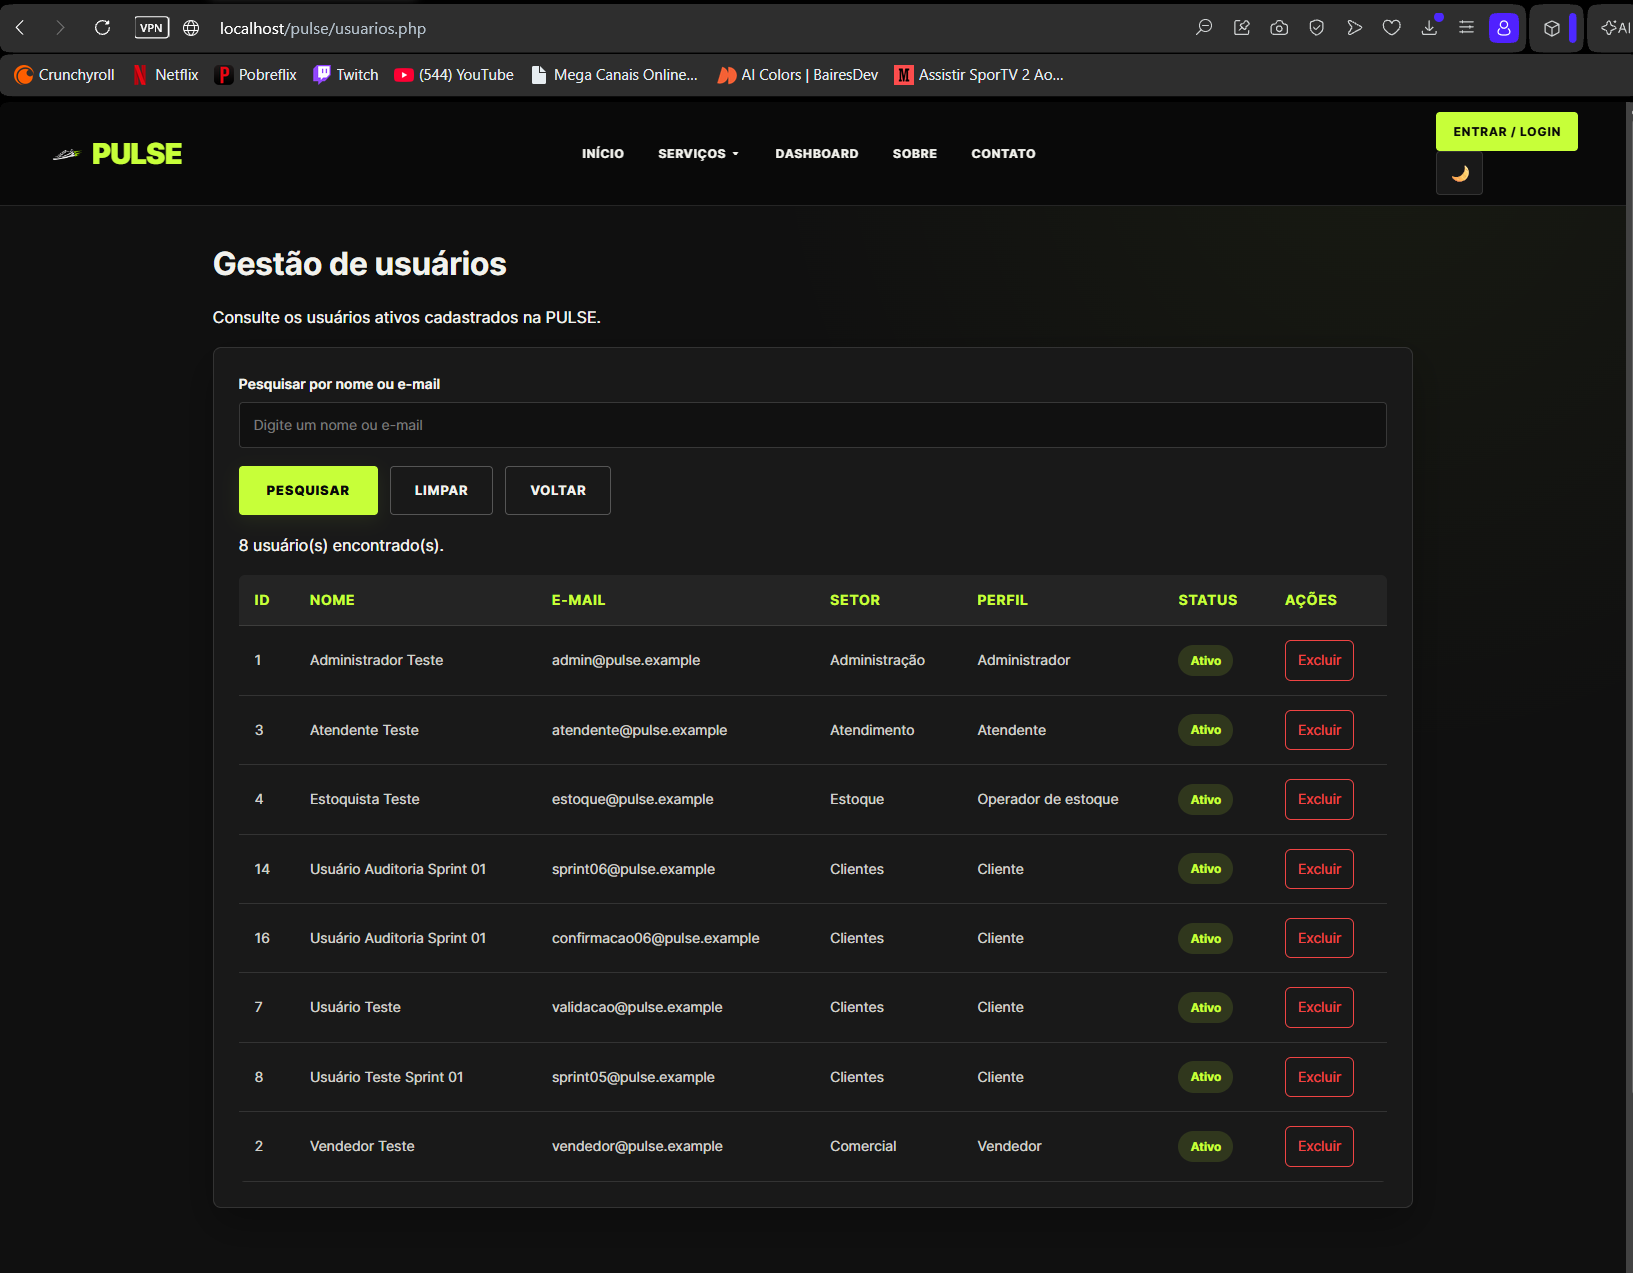
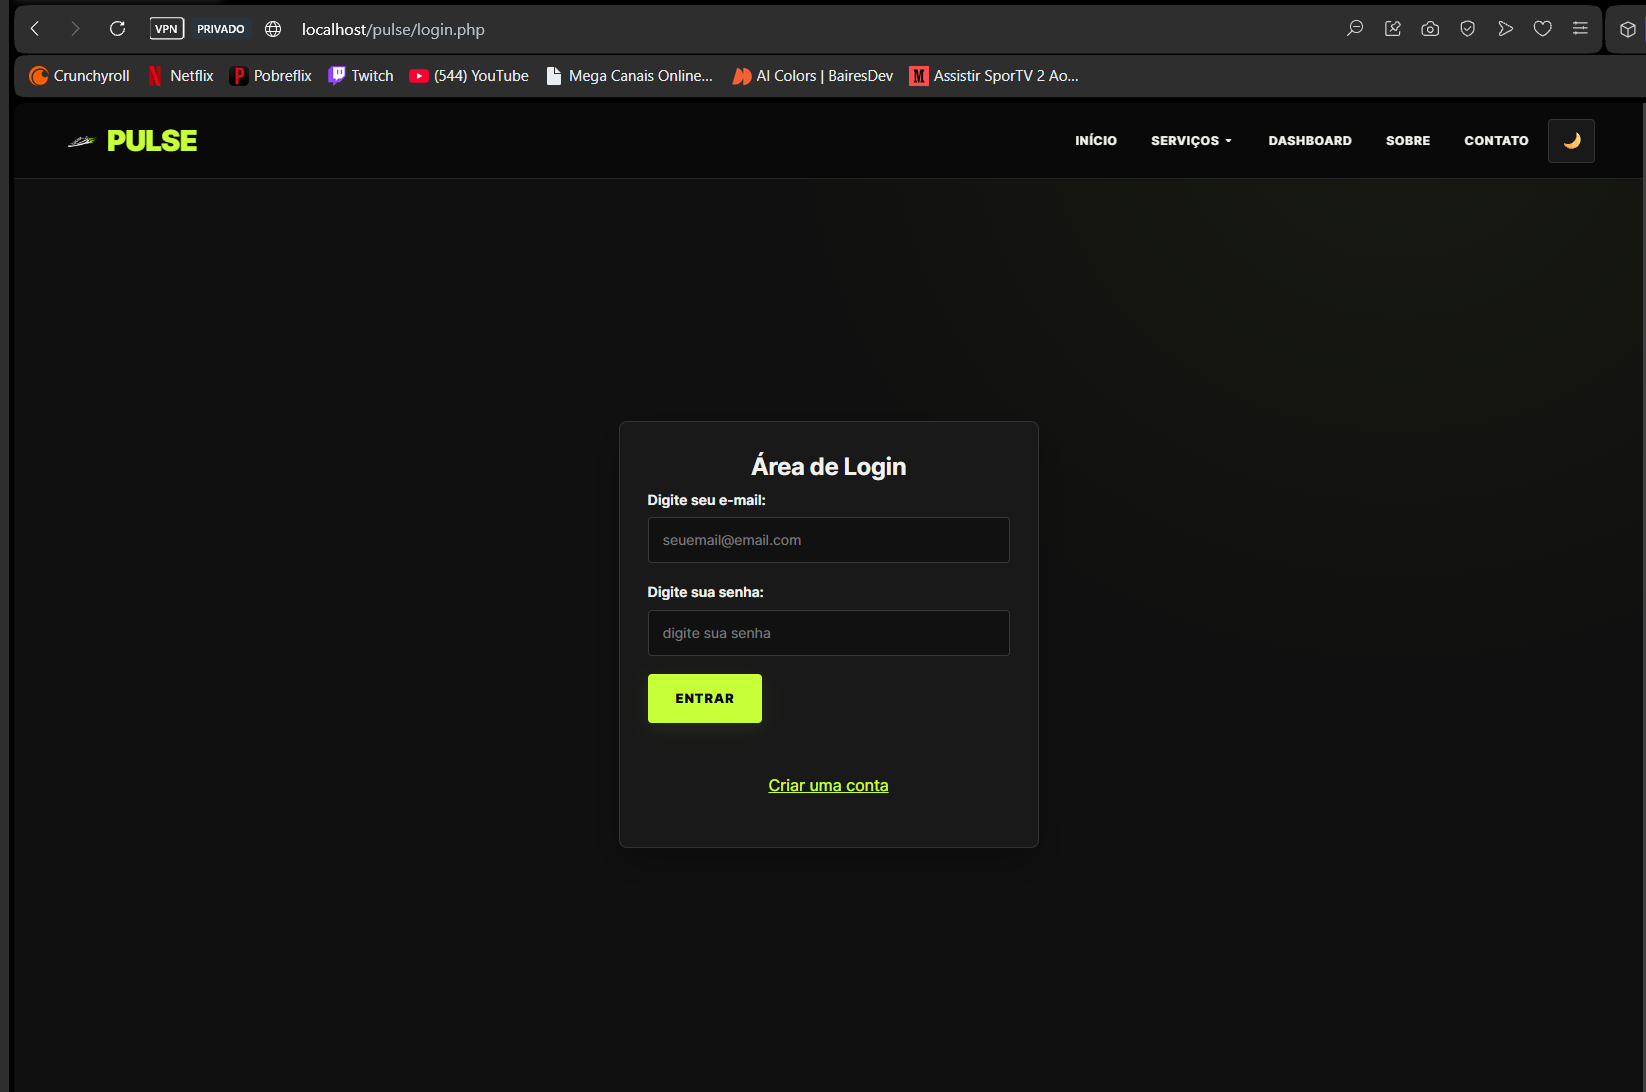
Correção na documentação

diff --git a/cadastro.php b/cadastro.php
@@ -4,7 +4,6 @@ require_once __DIR__ . '/database/conexao.php';
 require_once __DIR__ . '/includes/auditoria.php';
 $mensagem = '';
 $erros = [];
-$mensagem = '';
 $nome = '';
 $email = '';
 $setor_id = null;
@@ -40,7 +39,7 @@ try {
     if (!$referenciasDisponiveis) {
         $mensagem = 'Cadastro temporariamente indisponível. Não existem setores ou perfis disponíveis.';
     }
-} catch (PDOException $exception) {
+} catch (PDOException | RuntimeException $exception) {
     error_log('PULSE: falha ao consultar referências.');
     $mensagem = 'Serviço temporariamente indisponível. Tente novamente mais tarde.';
 }

diff --git a/excluir_usuario.php b/excluir_usuario.php
@@ -44,7 +44,7 @@ try {
         $pdo->commit();
         pulse_baixa_resposta('Usuário inexistente ou já baixado. Nenhuma alteração realizada.');
     }
-    $consulta = $pdo->prepare("UPDATE usuarios SET status = 'Baixa', baixado_em = CURRENT_TIMESTAMP WHERE id = :id AND status = 'Ativo'");
+    $consulta = $pdo->prepare("UPDATE usuarios SET status = 'Baixa', condicao = 'baixa', baixado_em = CURRENT_TIMESTAMP WHERE id = :id AND status = 'Ativo'");
     $consulta->execute(['id' => $id]);
     if ($consulta->rowCount() !== 1) {
         throw new RuntimeException('Baixa não efetuada.');

diff --git a/login.php b/login.php
@@ -33,7 +33,7 @@ if ($_SERVER['REQUEST_METHOD'] === 'POST') {
                 }
 
                 $mensagem = 'E-mail ou senha inválidos.';
-            } catch (PDOException $exception) {
+            } catch (PDOException | RuntimeException $exception) {
                 error_log('PULSE: falha no login.');
                 $mensagem = 'Não foi possível entrar. Confira a configuração do banco de dados.';
             }

diff --git a/includes/auth.php b/includes/auth.php
@@ -65,7 +65,7 @@ function pulse_is_admin(?PDO $pdo = null): bool
 
         return $consulta->fetchColumn() !== false;
 
-    } catch (PDOException $exception) {
+    } catch (PDOException | RuntimeException $exception) {
         error_log('PULSE: falha na autorização administrativa.');
 
         return false;

diff --git a/docs/relatorio-sprint-01.md b/docs/relatorio-sprint-01.md
@@ -5,7 +5,7 @@
 **Data:** 24/11/2026  
 **Ambiente:** Desenvolvimento local — XAMPP  
 **Versão do código:** a confirmar no pacote final  
-**Responsável pela execução:** integrante da equipe (identificação a preencher)
+**Responsável pela execução:** Bruno Renato
 
 ---
 
@@ -1914,6 +1914,14 @@ os resultados confirmados pelo responsável.
 
 ---
 
+## Revisão de preparação da entrega — 25/11/2026
+
+- Scripts SQL e conexão PDO padronizados para `db_pulse`; a instalação histórica permanece registrada separadamente.
+- A revisão de `excluir_usuario.php` passou a atualizar `status = 'Baixa'`, `condicao = 'baixa'` e `baixado_em` na mesma operação transacional com auditoria.
+- Revisão do tratamento de falhas de conexão em `cadastro.php`, `login.php` e `includes/auth.php`.
+- Evidências complementares de regressão revisadas visualmente: listagem, pesquisa de ativo e baixado, redirecionamento sem autenticação, bloqueio de cliente e POST sem autorização (Ponto 10, capturas 16 a 21). Conferir os arquivos no pacote final.
+- Reteste integrado da versão revisada pendente: instalação isolada, cadastro, login, baixa com ambos os campos e auditoria. O tipo root e a estrutura de sessões não comprovam implementação de permissões exclusivas ou rastreamento automático de sessões.
+
 ## Matriz consolidada de testes obrigatórios — T01 a T12
 
 Data registrada da execução: 24/11/2026. Responsável: executor local da equipe (nome a preencher). A matriz consolida os resultados relatados nos pontos anteriores; os arquivos indicados devem ser conferidos no ZIP. Não equivale a uma nova execução dos testes.
@@ -1957,11 +1965,15 @@ Data registrada da execução: 24/11/2026. Responsável: executor local da equip
 - Complementar o teste de caracteres especiais (T12); os testes de falha forçada de auditoria, exclusão da própria conta e exceção de FK no INSERT não foram executados diretamente conforme o relatório.
 - Conferir sincronização entre a pasta de desenvolvimento e a pasta executada pelo XAMPP.
 
-Responsável pelas pendências: equipe do projeto. Prazo: antes da entrega definitiva.
+Responsável pelas pendências: Bruno Renato.
 
 ### Conclusão geral
 
-Os resultados registrados demonstram a implementação funcional do módulo de gestão de usuários, com persistência no banco, integridade referencial, consultas relacionais e baixa lógica auditada. A entrega acadêmica permanece condicionada à conferência dos itens finais acima. A aprovação e a nota são de competência do professor.
+Os resultados obtidos ao longo da Sprint 01 demonstram a implementação funcional do módulo de cadastro e gestão de usuários do sistema PULSE, contemplando a persistência de dados, a integridade referencial, as consultas relacionais, a validação de entradas, o controle de acesso e a exclusão lógica com registro de auditoria.
+
+Os testes realizados permitiram verificar o funcionamento das funcionalidades implementadas, identificar inconsistências e aplicar as correções necessárias, preservando a estrutura e a identidade visual do sistema.
+
+O trabalho desenvolvido estabelece uma base sólida, segura e organizada para a continuidade do projeto, contribuindo para a evolução das funcionalidades e o aprimoramento da aplicação nas próximas sprints.
 
 **Situação funcional:** dez pontos implementados conforme o relato de execução.  
 **Situação da entrega integrada:** pendente de conferência e organização do pacote final.  

diff --git a/docs/modelo-de-dados.md b/docs/modelo-de-dados.md
@@ -52,7 +52,7 @@ A estrutura contempla as tabelas `sessoes_usuarios` e `auditoria_sistema`, desti
 
 A auditoria de cadastro e baixa lógica registra operações em `auditoria_sistema`. A estrutura de sessões existe, mas o registro automático de início e fim de cada sessão não foi comprovado no material revisado.
 
-A baixa lógica altera `usuarios.status` para `Baixa` e preenche `baixado_em`, preservando o registro e seus relacionamentos. O campo `tipo` é utilizado na autorização administrativa da aplicação.
+Na revisão final, a baixa lógica altera `usuarios.status` para `Baixa`, `condicao` para `baixa` e preenche `baixado_em`, preservando o registro e seus relacionamentos. O campo `tipo` é utilizado na autorização administrativa da aplicação.
 
 A tabela `auditoria_sistema` possui identificadores do responsável e do usuário afetado (quando disponíveis), ação, entidade, registro, descrição e data de criação, além de campos opcionais de valores anterior/novo e IP. Senhas e tokens não devem ser registrados.
 
@@ -109,7 +109,7 @@ O cadastro e o login utilizam a tabela `usuarios`. O carrinho da interface perma
 
 ## Limite da validação
 
-A estrutura prevista pelos scripts corrigidos possui 14 campos e sete índices em usuarios. O tipo root e o campo condicao são preservados como estrutura; a aplicação da Sprint utiliza status e autorização administrativa. Não foi demonstrada uma regra exclusiva de root nem sincronização automática entre condicao e status. A existência das tabelas não comprova, por si só, a integração funcional de todos os módulos.
+A estrutura prevista pelos scripts corrigidos possui 14 campos e sete índices em usuarios. O tipo root e o campo condicao são preservados como estrutura; a aplicação da Sprint utiliza status e autorização administrativa. Não foi demonstrada uma regra exclusiva de root nem sincronização automática global entre condicao e status. A atualização conjunta foi implementada no endpoint de baixa e aguarda reteste integrado. A existência das tabelas não comprova, por si só, a integração funcional de todos os módulos.
 
 ## Inicialização
 

diff --git a/README.md b/README.md
@@ -9,7 +9,7 @@ A PULSE é um e-commerce de venda de tênis desenvolvido com PHP, HTML, CSS, Jav
 
 1. Extraia o projeto em `C:\xampp\htdocs\pulse`, sem criar uma pasta pulse adicional.
 2. Inicie Apache e MySQL no XAMPP Control Panel.
-3. Abra `http://localhost/phpmyadmin/` e prepare uma base vazia.
+3. Abra `http://localhost/phpmyadmin/` e confirme que `db_pulse` não existe ou está vazio; se contiver dados, não prossiga nesse servidor.
 4. Importe os scripts abaixo, na ordem indicada.
 5. Confira o banco de destino e as credenciais em `database/conexao.php`. A configuração de entrega utiliza `db_pulse`. O ambiente histórico de homologação utilizou `db_pulse_instalacao_teste`.
 6. Abra `http://localhost/pulse/`.
@@ -79,7 +79,7 @@ pulse/
 
 ## Segurança e limites
 
-O módulo utiliza PDO com consultas preparadas, `password_hash`, `password_verify`, proteção CSRF e autorização administrativa no servidor. A baixa é realizada por POST, sem remoção física do usuário. O cadastro público não concede perfil administrativo. O usuário root do MySQL não equivale a um administrador da aplicação.
+O módulo utiliza PDO com consultas preparadas, `password_hash`, `password_verify`, proteção CSRF e autorização administrativa no servidor. A baixa é realizada por POST, sem remoção física do usuário. Na revisão final, a operação passou a atualizar `status`, `condicao` e `baixado_em` na mesma transação com a auditoria; o reteste integrado está pendente. O cadastro público não concede perfil administrativo. O usuário root do MySQL não equivale a um administrador da aplicação.
 
 O carrinho utiliza armazenamento local. O checkout não efetua pagamentos reais nem persiste dados financeiros. Utilize apenas dados fictícios nos testes. Antes de publicar, configure HTTPS e credenciais próprias, com privilégios mínimos.
 
